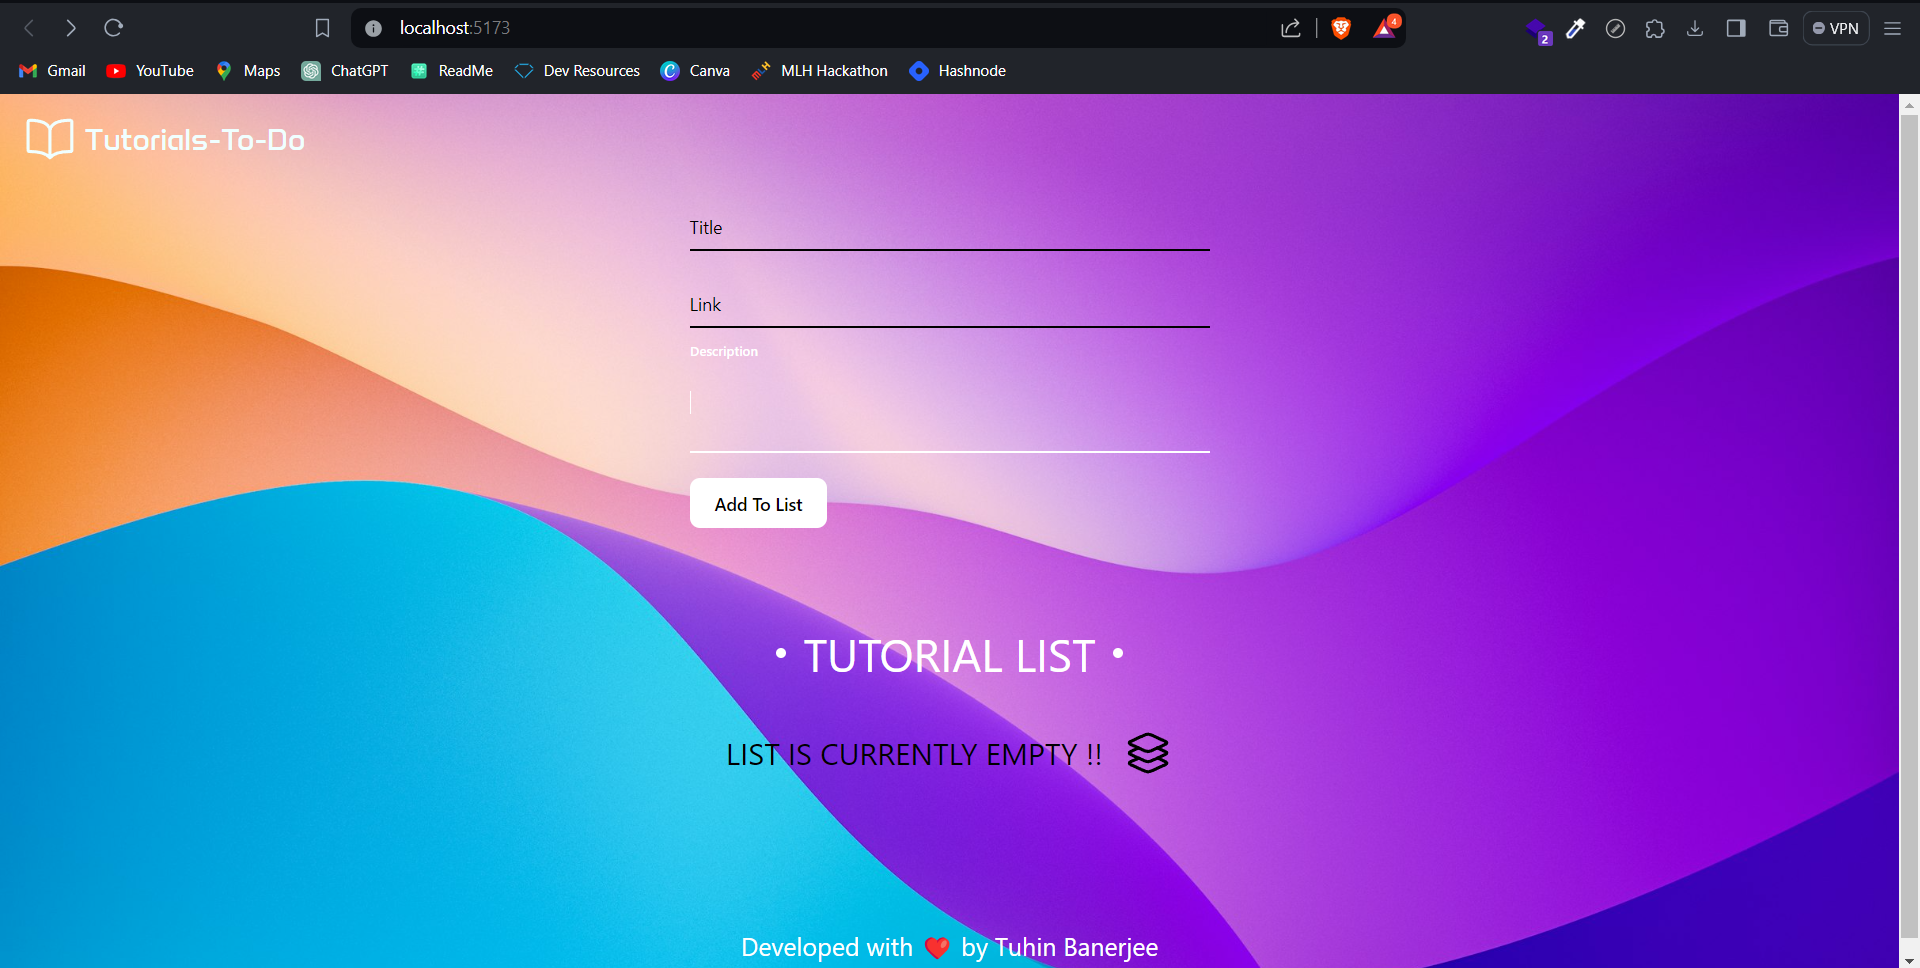
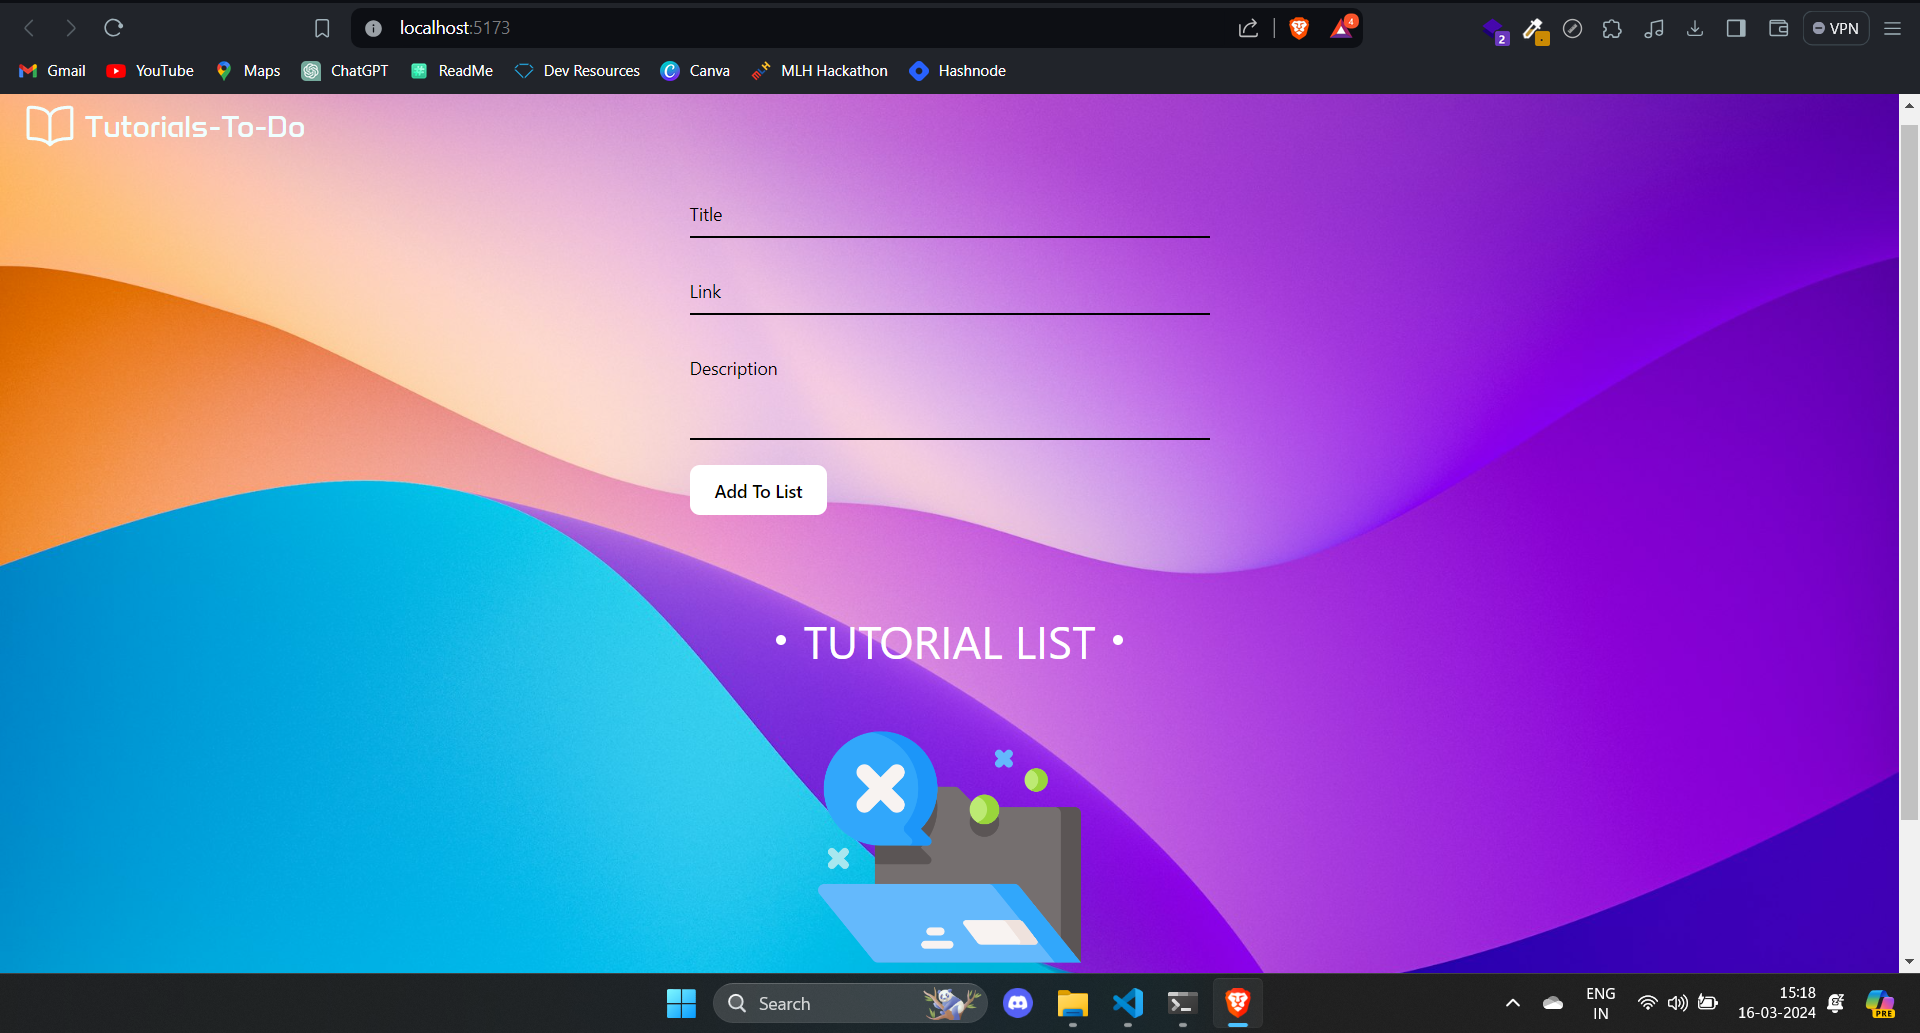
Updated Empty-List

diff --git a/src/components/Footer.jsx b/src/components/Footer.jsx
@@ -1,22 +1,20 @@
-import useStore from "../manager/store";
-
 const Footer = () => {
-  const { dataset } = useStore((state) => ({
-    dataset: state.dataset,
-  }));
+  // const { dataset } = useStore((state) => ({
+  //   dataset: state.dataset,
+  // }));
 
-  const conditionalStyle = () => {
-    if(dataset.length === 0) {
-      return 'absolute';
-    }
-    else {
-      return 'relative';
-    }
-  }
+  // const conditionalStyle = () => {
+  //   if(dataset.length === 0) {
+  //     return 'relative';
+  //   }
+  //   else {
+  //     return 'relative';
+  //   }
+  // }
 
   return (
     <div className="mt-20 mb-5">
-      <h1 className="text-center text-white w-full text-xl bottom-0 mb-5" style={{position: conditionalStyle()}}>
+      <h1 className="text-center text-white w-full text-xl bottom-0 mb-5">
         Developed with ❤ by{" "}
         <a
           href="https://github.com/TuhinBanerjee31"

diff --git a/src/components/CardList.jsx b/src/components/CardList.jsx
@@ -1,5 +1,6 @@
 import Card from "./Card";
 import useStore from "../manager/store";
+import emptyList from "../assets/empty-list.png";
 
 const CardList = () => {
   const { dataset } = useStore((state) => ({
@@ -23,11 +24,8 @@ const CardList = () => {
           })}
         </div>
       ) : (
-        <div className="py-10 flex justify-center items-center gap-4 duration-200 ease-in-out">
-          <h1 className="text-center uppercase text-2xl">
-            List is currently Empty !!
-          </h1>
-          <ion-icon name="layers-outline" style={{color: "black"}}></ion-icon>
+        <div className="pt-10 flex justify-center items-center gap-4 duration-200 ease-in-out">
+          <img src={emptyList} alt="empty-list" style={{ height: "30vh", width: '100wv'}} />
         </div>
       )}
     </div>
